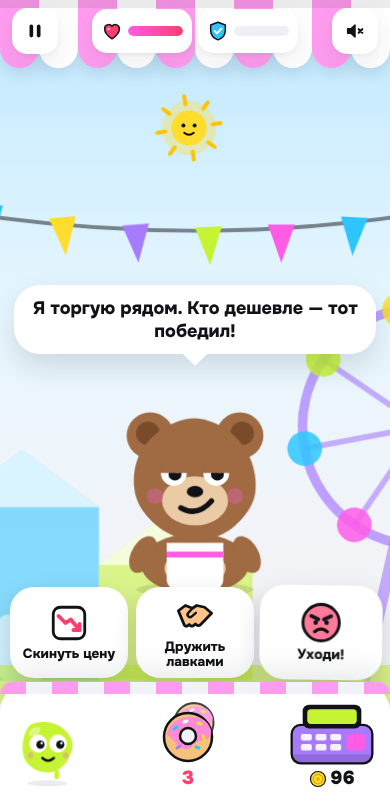
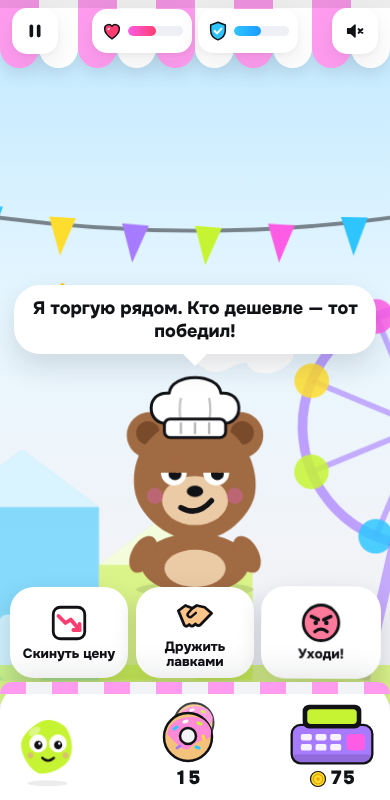
Медведь-конкурент в поварском колпаке вместо непонятного фартука
Claude-Session: https://claude.ai/code/session_01Aij1Ph9BmqXVH6UvYWdYBF

diff --git a/index.html b/index.html
@@ -871,7 +871,13 @@ function critter(k, md = 'idle', acc = []) {
     ${spikes}
     <ellipse cx="80" cy="168" rx="46" ry="26" fill="${C.c}"/><ellipse cx="80" cy="172" rx="26" ry="16" fill="${C.c2}"/>
     <ellipse cx="36" cy="160" rx="10" ry="17" fill="${C.c}" transform="rotate(28 36 160)"/><ellipse cx="124" cy="160" rx="10" ry="17" fill="${C.c}" transform="rotate(-28 124 160)"/>
-    ${A('apron') ? `<path d="M56 150h48v32a8 8 0 0 1-8 8H64a8 8 0 0 1-8-8z" fill="#fff"/><path d="M56 160h48" stroke="#FF5CE6" stroke-width="5"/>` : ''}
+    ${A('apron') ? `<g stroke="${dk}" stroke-width="2" stroke-linejoin="round">
+      <path d="M66 147q14-10 28 0" fill="none" stroke="#fff" stroke-width="5" stroke-linecap="round"/>
+      <path d="M57 151l-13-3M103 151l13-3" stroke="#fff" stroke-width="4" stroke-linecap="round"/>
+      <path d="M60 146h40l3 34a10 10 0 0 1-10 11H67a10 10 0 0 1-10-11z" fill="#fff"/>
+      <path d="M59 153h42" stroke="#FF5CE6" stroke-width="5"/>
+      <rect x="69" y="165" width="22" height="14" rx="4" fill="#FFE3F7"/>
+      <path d="M58 186q22 6 44 0" fill="none" stroke="#FF5CE6" stroke-width="3"/></g>` : ''}
     ${A('tie') ? `<path d="M80 144l-7 6 7 26 7-26z" fill="#FF3D6E"/>` : ''}
     ${A('bag') ? `<g transform="translate(108 140) rotate(12)"><path d="M6 10q-8 6-6 18a10 10 0 0 0 10 8h12a10 10 0 0 0 10-8q2-12-6-18z" fill="#C9A15B" stroke="${dk}" stroke-width="2"/><path d="M8 8h16l-3-6H11z" fill="#C9A15B" stroke="${dk}" stroke-width="2"/><text x="16" y="30" text-anchor="middle" font-size="12" font-weight="900" fill="${dk}">$</text></g>` : ''}
     ${A('phone') ? `<g transform="translate(110 132) rotate(-14)"><rect width="24" height="40" rx="6" fill="${dk}"/><rect x="3" y="4" width="18" height="30" rx="3" fill="#7FD4FF"/><path d="M8 18l3 3 6-7" stroke="#21A038" stroke-width="2.4" fill="none"/></g>` : ''}
@@ -894,6 +900,11 @@ function critter(k, md = 'idle', acc = []) {
       <path d="M30 63Q80 55 130 63Q134 70 125 74Q80 88 35 74Q26 70 30 63z" fill="#1A9BFF" stroke="${dk}" stroke-width="2.5" stroke-linejoin="round"/><path d="M44 71Q80 81 116 71" stroke="#fff" stroke-width="2.5" fill="none" opacity=".35" stroke-linecap="round"/>
       <circle cx="80" cy="25" r="5" fill="#C6F432" stroke="${dk}" stroke-width="2"/></g>` : ''}
     ${A('hardhat') ? `<path d="M34 68C34 28 126 28 126 68z" fill="#FFDD2E" stroke="${dk}" stroke-width="2.5"/><path d="M80 32v36" stroke="#FFC400" stroke-width="6"/><rect x="26" y="64" width="108" height="10" rx="5" fill="#FFC400" stroke="${dk}" stroke-width="2.5"/>` : ''}
+    ${A('chef') ? `<g stroke="${dk}" stroke-width="2.5" stroke-linejoin="round">
+      <path d="M56 48C38 48 38 20 58 22C60 4 100 4 102 22C122 20 122 48 104 48Z" fill="#fff"/>
+      <path d="M68 26q-2 10 0 20M92 26q2 10 0 20" fill="none" stroke-width="2" opacity=".25"/>
+      <rect x="54" y="44" width="52" height="16" rx="5" fill="#fff"/>
+      <path d="M68 47v10M80 47v10M92 47v10" stroke-width="2" opacity=".3"/></g>` : ''}
     ${A('bow') ? `<g transform="translate(112 42) rotate(18)"><path d="M0 0l-16-10v20zM0 0l16-10v20z" fill="#FF5CE6"/><circle r="5" fill="#FF3D6E"/></g>` : ''}
     ${A('tear') ? `<path d="M${ex[0] - 6} ${ey + 14}q-5 10 0 15 5-5 0-15z" fill="#2E9BFF"/>` : ''}
   </svg>`;
@@ -1083,7 +1094,7 @@ const ST = {
       { i: 'angry', t: 'Сам такой!', bad: 1, fx: { r: -2 }, exit: 'angry', res: `${mc('hedgehog', 'angry')} Расскажет всем!`, tip: 'Спокойный ответ гасит ссору.', mom: () => ({ t: `${mc('hedgehog')} −2 ${ic('heart')}`, c: 'r' }) },
       { i: 'coinsBack', t: 'Вернуть деньги', cost: 5, fx: { m: -5, r: 1 }, exit: 'happy', res: `${mc('hedgehog')} Ну ладно…` },
       { i: 'flower', t: 'Извиниться', needStock: 1, fx: { st: -1, r: 2 }, exit: 'happy', res: `${mc('hedgehog', 'happy')} Вот это сервис!` }] },
-  rival: { who: ['bear', ['apron']], md: 'sly', say: () => `Я торгую рядом. Кто дешевле — тот победил!`,
+  rival: { who: ['bear', ['chef']], md: 'sly', say: () => `Я торгую рядом. Кто дешевле — тот победил!`,
     opts: [
       { i: 'chartDown', t: 'Скинуть цену', fx: { m: -15 }, exit: 'angry', res: `${ic('chartDown')} Оба заработали меньше`, mom: () => ({ t: `${ic('chartDown')} −15 ${C()}`, c: 'r' }) },
       { i: 'handshake', t: 'Дружить лавками', fx: { m: 15, r: 2 }, exit: 'happy', res: `${ic('handshake')} Набор вдвоём — хит!`, mom: () => ({ t: `${mc('bear')} ${ic('handshake')} +15`, c: 'g' }) },
